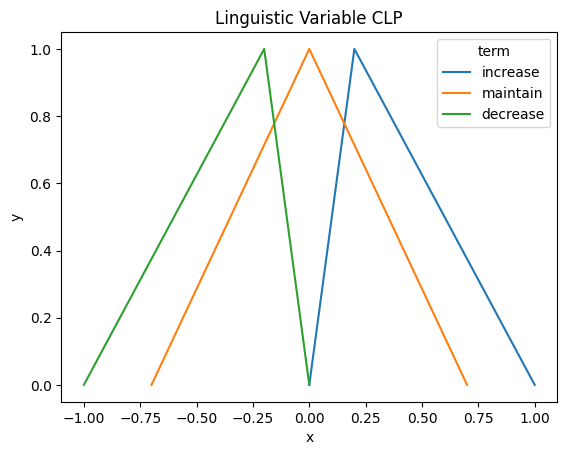
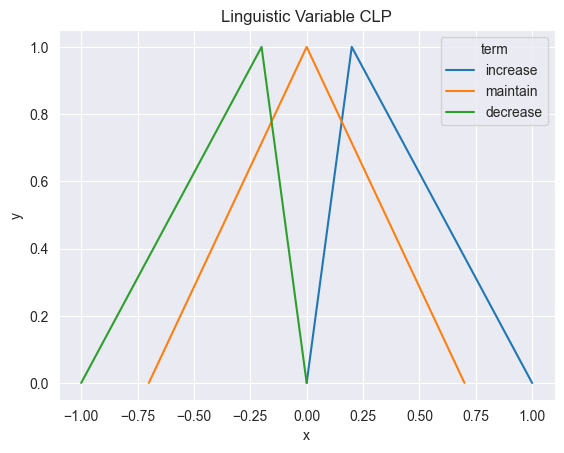
mandami triangle with MSE equal to 0.031

diff --git a/fuzzy/models/mamdani_triangle_v2.py b/fuzzy/models/mamdani_triangle_v2.py
@@ -3,26 +3,22 @@ from simpful import FuzzySystem, TriangleFuzzySet, AutoTriangle, LinguisticVaria
 
 FS = FuzzySystem()
 
-# System Load = Max (Memory Usage, Processor Load)
-#S1 = TriangleFuzzySet(0,0,0.45, term = "low")
-#S2 = TriangleFuzzySet(0.30,0.45,0.70, term = "moderate")
-#S3 = TriangleFuzzySet(0.6,0.8,0.9, term = "high")
-#S4 = TriangleFuzzySet(0.75,1,1, term = "critical")
-#FS.add_linguistic_variable("SystemLoad", LinguisticVariable([S1,S2,S3,S4], universe_of_discourse=[0,1]))
 
 # System Load = Max (Memory Usage, Processor Load)
-S1 = TriangleFuzzySet(0,0,0.8, term = "low")
-S3 = TriangleFuzzySet(0.5,0.7,0.9, term = "high")
-#S2 = TriangleFuzzySet(0.30,0.45,0.70, term = "moderate")
-S4 = TriangleFuzzySet(0.65,1,1, term = "critical")
-FS.add_linguistic_variable("SystemLoad", LinguisticVariable([S1,S3,S4], universe_of_discourse=[0,1]))
+S1 = TriangleFuzzySet(0,0,0.5, term = "very_low")
+S2 = TriangleFuzzySet(0.2,0.4,0.5, term = "low")
+S3 = TriangleFuzzySet(0.4,0.5,0.6, term = "moderate")
+S4 = TriangleFuzzySet(0.5,0.7,0.9, term = "high")
+S5 = TriangleFuzzySet(0.65,1,1, term = "critical")
+FS.add_linguistic_variable("SystemLoad", LinguisticVariable([S1,S2,S3,S4,S5], universe_of_discourse=[0,1]))
 
 # latency
 L1 = TriangleFuzzySet(0,0,0.8, term = "low")
-L2 = TriangleFuzzySet(0.5,1,1, term = "high")
+L2 = TriangleFuzzySet(0.4,0.5,0.7, term = "moderate")
+L3 = TriangleFuzzySet(0.4,1,1, term = "high")
 #S2 = TriangleFuzzySet(0.30,0.45,0.70, term = "moderate")
 #L4 = TriangleFuzzySet(0.65,1,1, term = "critical")
-FS.add_linguistic_variable("Latency", LinguisticVariable([L1,L2], universe_of_discourse=[0,1]))
+FS.add_linguistic_variable("Latency", LinguisticVariable([L1,L2,L3], universe_of_discourse=[0,1]))
 
 
 
@@ -34,33 +30,13 @@ T4 = TriangleFuzzySet(0.75,1,1, term = "very_high")
 FS.add_linguistic_variable("OutNetThroughput", LinguisticVariable([T1,T2,T3, T4], universe_of_discourse=[0,1]))
 
 # CLP Variation (output)
-#CLP1 = TriangleFuzzySet(0.6,1,1,   term="increase_significantly")
-#CLP2 = TriangleFuzzySet(0,0.5,0.9,   term="increase")
-#CLP3 = TriangleFuzzySet(-0.3,0,0.3,  term="maintain")
-#CLP4 = TriangleFuzzySet(-0.9,-0.5,0, term="decrease")
-#CLP5 = TriangleFuzzySet(-1,-1,-0.6, term="decrease_significantly")
-#FS.add_linguistic_variable("CLP", LinguisticVariable([CLP1, CLP2, CLP3, CLP4, CLP5], universe_of_discourse=[-1,1]))
-
 CLP1 = TriangleFuzzySet(0.6,1,1,   term="increase_significantly")
-CLP2 = TriangleFuzzySet(-0.3,0.5,0.9,   term="increase")
-#CLP3 = TriangleFuzzySet(-0.3,0,0.3,  term="maintain")
-CLP4 = TriangleFuzzySet(-0.9,-0.5,0.3, term="decrease")
+CLP2 = TriangleFuzzySet(0,0.5,0.9,   term="increase")
+CLP3 = TriangleFuzzySet(-0.3,0,0.3,  term="maintain")
+CLP4 = TriangleFuzzySet(-0.9,-0.5,0, term="decrease")
 CLP5 = TriangleFuzzySet(-1,-1,-0.6, term="decrease_significantly")
-FS.add_linguistic_variable("CLP", LinguisticVariable([CLP1, CLP2, CLP4, CLP5], universe_of_discourse=[-1,1]))
+FS.add_linguistic_variable("CLP", LinguisticVariable([CLP1, CLP2, CLP3, CLP4, CLP5], universe_of_discourse=[-1,1]))
 
-#FS.add_rules([
-#    "IF (SystemLoad IS critical) THEN (CLP IS decrease_significantly)",
-#    #"IF (SystemLoad IS high) AND (OutNetThroughput IS low) THEN (CLP IS mantain)",
-#    #"IF (SystemLoad IS high) AND (OutNetThroughput IS moderate) THEN (CLP IS mantain)",
-#    #"IF (SystemLoad IS high) AND (OutNetThroughput IS high) THEN (CLP IS decrease)",
-#    #"IF (SystemLoad IS high) AND (OutNetThroughput IS very_high) THEN (CLP IS decrease)",
-#    "IF (SystemLoad IS high) THEN (CLP IS increase)",
-#    "IF (SystemLoad IS moderate) THEN (CLP IS increase)",
-#    "IF (SystemLoad IS low) AND (OutNetThroughput IS low) THEN (CLP IS increase_significantly)",
-#    "IF (SystemLoad IS low) AND (OutNetThroughput IS moderate) THEN (CLP IS increase_significantly)",
-#    "IF (SystemLoad IS low) AND (OutNetThroughput IS high) THEN (CLP IS increase)",
-#    "IF (SystemLoad IS low) AND (OutNetThroughput IS very_high) THEN (CLP IS increase)",
-#])
 
 FS.add_rules([
 
@@ -68,9 +44,15 @@ FS.add_rules([
 
     "IF (SystemLoad IS high) AND (Latency IS high) THEN (CLP IS increase_significantly)",
 
-    "IF (SystemLoad IS high) AND (Latency IS low) THEN (CLP IS decrease)",
+    "IF (SystemLoad IS high) AND (Latency IS low) THEN (CLP IS maintain)",
+
+    #"IF (SystemLoad IS high) AND (Latency IS moderate) THEN (CLP IS decrease)",
+
+    "IF (SystemLoad IS moderate) THEN (CLP IS increase)",
 
     "IF (SystemLoad IS low) THEN (CLP IS increase_significantly)",
+
+    "IF (SystemLoad IS very_low) THEN (CLP IS increase_significantly)",
 
 ])
 

diff --git a/fuzzy/eval_models.py b/fuzzy/eval_models.py
@@ -73,11 +73,11 @@ else:
 #     f'datapoint {d}': [] for d in range(len(df_test))
 # }
 # scores['model'] = []
-MSE = pd.DataFrame()
+MSE = {}
 scores = pd.DataFrame()
 for name in models.keys():
     scores[name] = np.abs((df_test['CLPVariation'] - df[name]) / df_test['CLPVariation']) * 100
-    MSE[name] = ((df_test['CLPVariation'] - df[name])**2)/len(df_test['CLPVariation'])
+    MSE[name] = (((df_test['CLPVariation'] - df[name])**2)/len(df_test['CLPVariation'])).sum()
 
     # for i, point in enumerate(s):
     #     scores['model'].append(name)

diff --git a/fuzzy/visualization/visualization.py b/fuzzy/visualization/visualization.py
@@ -121,6 +121,10 @@ def plot_model_scores(file_path: str):
     ax.set_ylabel('Relative Error [%]')
     plt.show()
 
+def plot_mse_scores(df):
+    ax = sns.barplot(df)
+    plt.show()
+
 
 if __name__ == '__main__':
     import pickle
